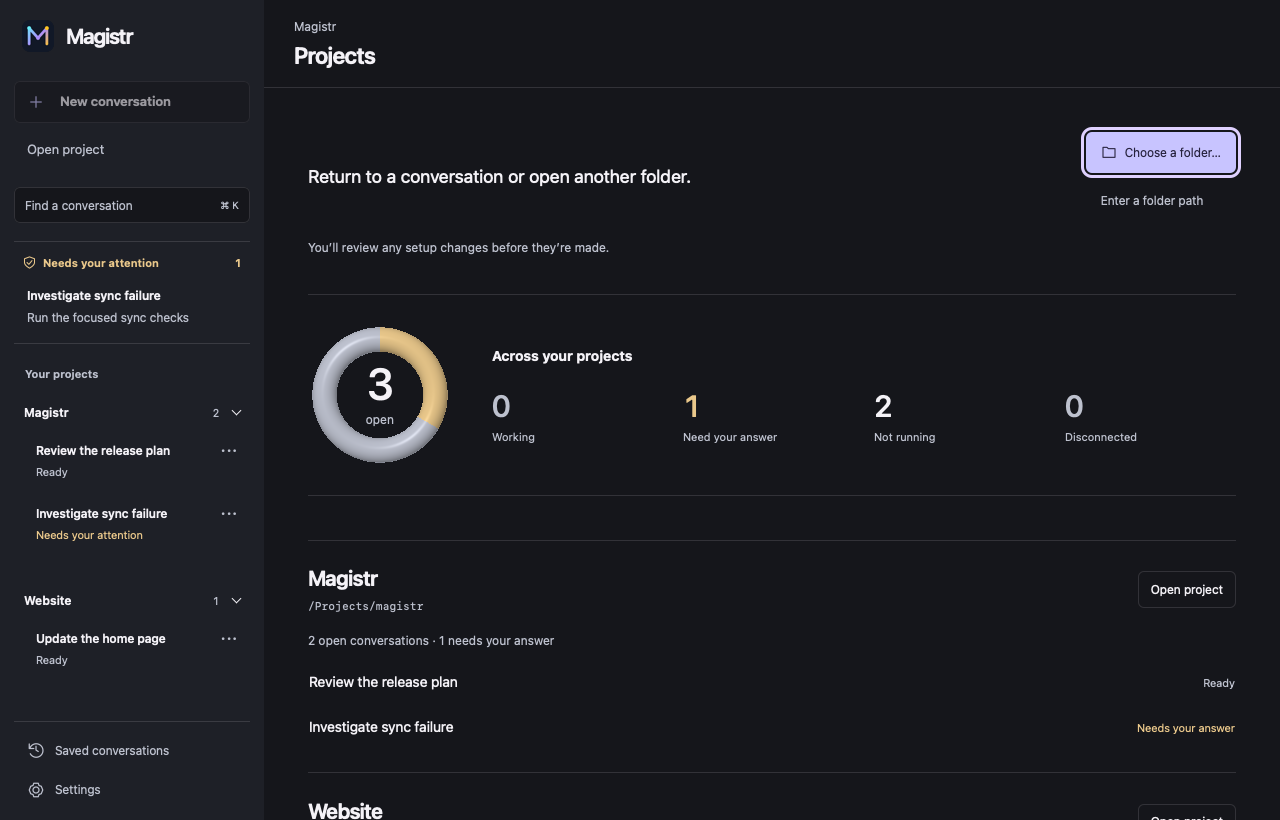
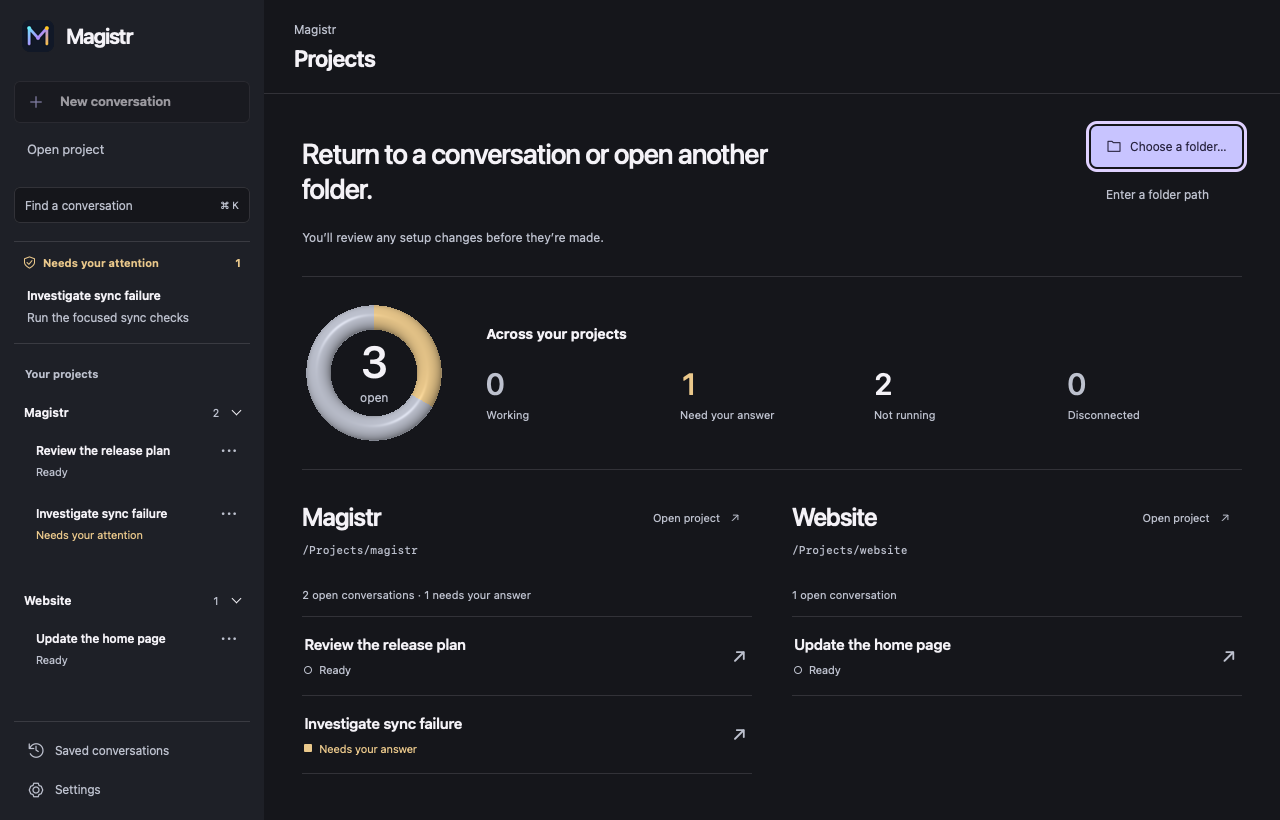
feat(desktop): arrange projects as a comparative visual directory

diff --git a/crates/magistr-desktop/ui/style.css b/crates/magistr-desktop/ui/style.css
@@ -252,18 +252,18 @@ textarea::placeholder,input::placeholder{color:var(--muted);opacity:1}
 .request-actions button:hover{background:var(--panel)}.request-actions button:disabled{color:var(--muted)}
 .session-actions{display:grid;gap:8px}.session-actions button{font-size:12px}
 .error{padding:10px 14px;color:var(--danger);background:var(--panel);border-bottom:1px solid var(--separator);overflow-wrap:anywhere;font-size:13px}
-.welcome{margin:0 auto;width:min(100%,1040px);padding:44px;overflow:auto}
-.welcome-intro{display:grid;grid-template-columns:minmax(0,1fr) auto;gap:16px 32px;padding-bottom:36px}
+.welcome{margin:0 auto;width:min(100%,1320px);padding:32px var(--gutter);overflow:auto}
+.welcome-intro{display:grid;grid-template-columns:minmax(0,1fr) auto;gap:12px 32px;padding-bottom:28px}
 
 .welcome p{color:var(--muted);font-size:13px;line-height:1.7;margin:0}
-.welcome .welcome-description{font-size:18px;line-height:1.5;color:var(--text);max-width:40ch;align-self:center}
+.welcome .welcome-description{font-size:clamp(22px,2.2vw,30px);font-weight:500;letter-spacing:-.035em;line-height:1.25;color:var(--text);max-width:26ch;align-self:center}
 .welcome .welcome-hint{grid-column:1/-1;font-size:12px}
 .welcome-actions{display:flex;flex-direction:column;gap:8px;align-self:start}
 .welcome-actions button{font-size:12px;min-height:40px;padding:10px 14px}
 .welcome-actions button:first-child{background:var(--button);color:var(--button-text);border-color:var(--button)}
 .welcome-actions button+button{background:transparent;border-color:transparent;color:var(--muted)}
 
-.project-activity{display:grid;grid-template-columns:144px minmax(0,1fr);align-items:center;gap:40px;margin:0 0 44px;padding:28px 0;border-block:1px solid var(--separator)}
+.project-activity{display:grid;grid-template-columns:144px minmax(0,1fr);align-items:center;gap:40px;margin:0 0 32px;padding:24px 0;border-block:1px solid var(--separator)}
 .activity-wheel{display:grid;place-content:center;text-align:center;position:relative;isolation:isolate;width:144px;height:144px}
 .activity-wheel::before{content:"";position:absolute;inset:0;border-radius:50%;background:var(--activity-fill);mask:radial-gradient(circle,transparent 58%,black 59%);-webkit-mask:radial-gradient(circle,transparent 58%,black 59%);z-index:-1}
 .activity-material{position:absolute;inset:0;width:100%;height:100%;z-index:-1;pointer-events:none}
@@ -278,16 +278,18 @@ textarea::placeholder,input::placeholder{color:var(--muted);opacity:1}
 .activity-wheel:not([data-material=rendered]) .activity-material{visibility:hidden}.activity-wheel[data-material=rendered]::before{display:none}
 .activity-wheel strong{font-size:32px}.activity-counts{grid-template-columns:1fr 1fr;gap:18px}.activity-body h2{margin-bottom:18px}}
 @media(forced-colors:active){.activity-wheel::before{background:none;border:2px solid CanvasText;mask:none;-webkit-mask:none}}
-.directory-project{border-top:1px solid var(--separator);padding:24px 0}
-.directory-project-heading{display:flex;justify-content:space-between;align-items:center;gap:20px}
-.directory-project-title{min-width:0}.directory-project-title h2{text-transform:none;color:var(--text);font-size:21px;font-weight:600;line-height:1.3;letter-spacing:-.025em;margin:0 0 6px}
+#welcome-projects{display:grid;grid-template-columns:repeat(auto-fit,minmax(min(100%,320px),1fr));gap:36px 40px;align-items:start}
+.directory-project{min-width:0;padding:0 0 20px}
+.directory-project-heading{display:flex;justify-content:space-between;align-items:flex-start;gap:16px;min-height:72px}
+.directory-project-title{min-width:0}.directory-project-title h2{text-transform:none;color:var(--text);font-size:25px;font-weight:550;line-height:1.2;letter-spacing:-.035em;margin:0 0 10px}
 .directory-project-title p{font:11px/1.5 var(--font-code);overflow-wrap:anywhere}
-.directory-open{flex-shrink:0;font-size:12px;padding:8px 12px;border-color:var(--separator);background:transparent}
-.welcome .directory-project-facts{font-size:12px;margin:16px 0 10px}
-.directory-conversations{display:grid;gap:4px}
-.directory-conversation{display:flex;align-items:baseline;justify-content:space-between;gap:24px;border-color:transparent;border-radius:4px;background:transparent;padding:10px 12px;margin-inline:-12px;font-size:14px;line-height:1.4}
+.directory-open{flex-shrink:0;font-size:11px;padding:7px 9px;border-color:transparent;background:transparent;color:var(--muted)}.directory-open::before{order:2;transform:rotate(45deg);width:14px;height:14px;flex-basis:14px}
+.welcome .directory-project-facts{font-size:11px;margin:12px 0;color:var(--muted)}
+.directory-conversations{display:grid;gap:0;border-top:1px solid var(--separator)}
+.directory-conversation{display:grid;grid-template-columns:minmax(0,1fr) auto;align-items:center;gap:7px 12px;border:0;border-bottom:1px solid var(--separator);border-radius:0;background:transparent;padding:17px 2px;margin:0;font-size:15px;line-height:1.4;min-height:74px}
+.directory-conversation::after{content:"↗";grid-column:2;grid-row:1/3;font-size:18px;color:var(--muted);padding:4px}.directory-conversation-name{font-weight:550;letter-spacing:-.015em}.directory-conversation-state{grid-column:1;display:flex;align-items:center;gap:7px}.directory-conversation-state::before{content:"";width:6px;height:6px;flex-shrink:0;border:1px solid currentColor;border-radius:50%}.directory-conversation[data-state=waiting] .directory-conversation-state::before{border-radius:1px;background:currentColor}.directory-conversation[data-state=working] small{color:var(--success)}.directory-conversation[data-state=working] .directory-conversation-state::before{background:currentColor}.directory-conversation[data-state=disconnected] small{color:var(--danger)}
 .directory-conversation:hover{background:var(--panel)}
-.directory-conversation span{overflow-wrap:anywhere}.directory-conversation small{font-size:11px;color:var(--muted);white-space:nowrap}
+.directory-conversation span{overflow-wrap:anywhere}.directory-conversation small{font-size:11px;color:var(--muted);white-space:normal}
 .directory-conversation[data-attention=true] small{color:var(--warning)}
 @media(max-width:1000px){.welcome{padding:28px}.welcome-intro{grid-template-columns:1fr;gap:16px;padding-bottom:28px}.welcome-actions{flex-direction:row;flex-wrap:wrap}}
 @media(max-width:600px){.directory-project-heading{align-items:flex-start;flex-wrap:wrap;gap:12px}.directory-conversation{flex-wrap:wrap;gap:6px}}
